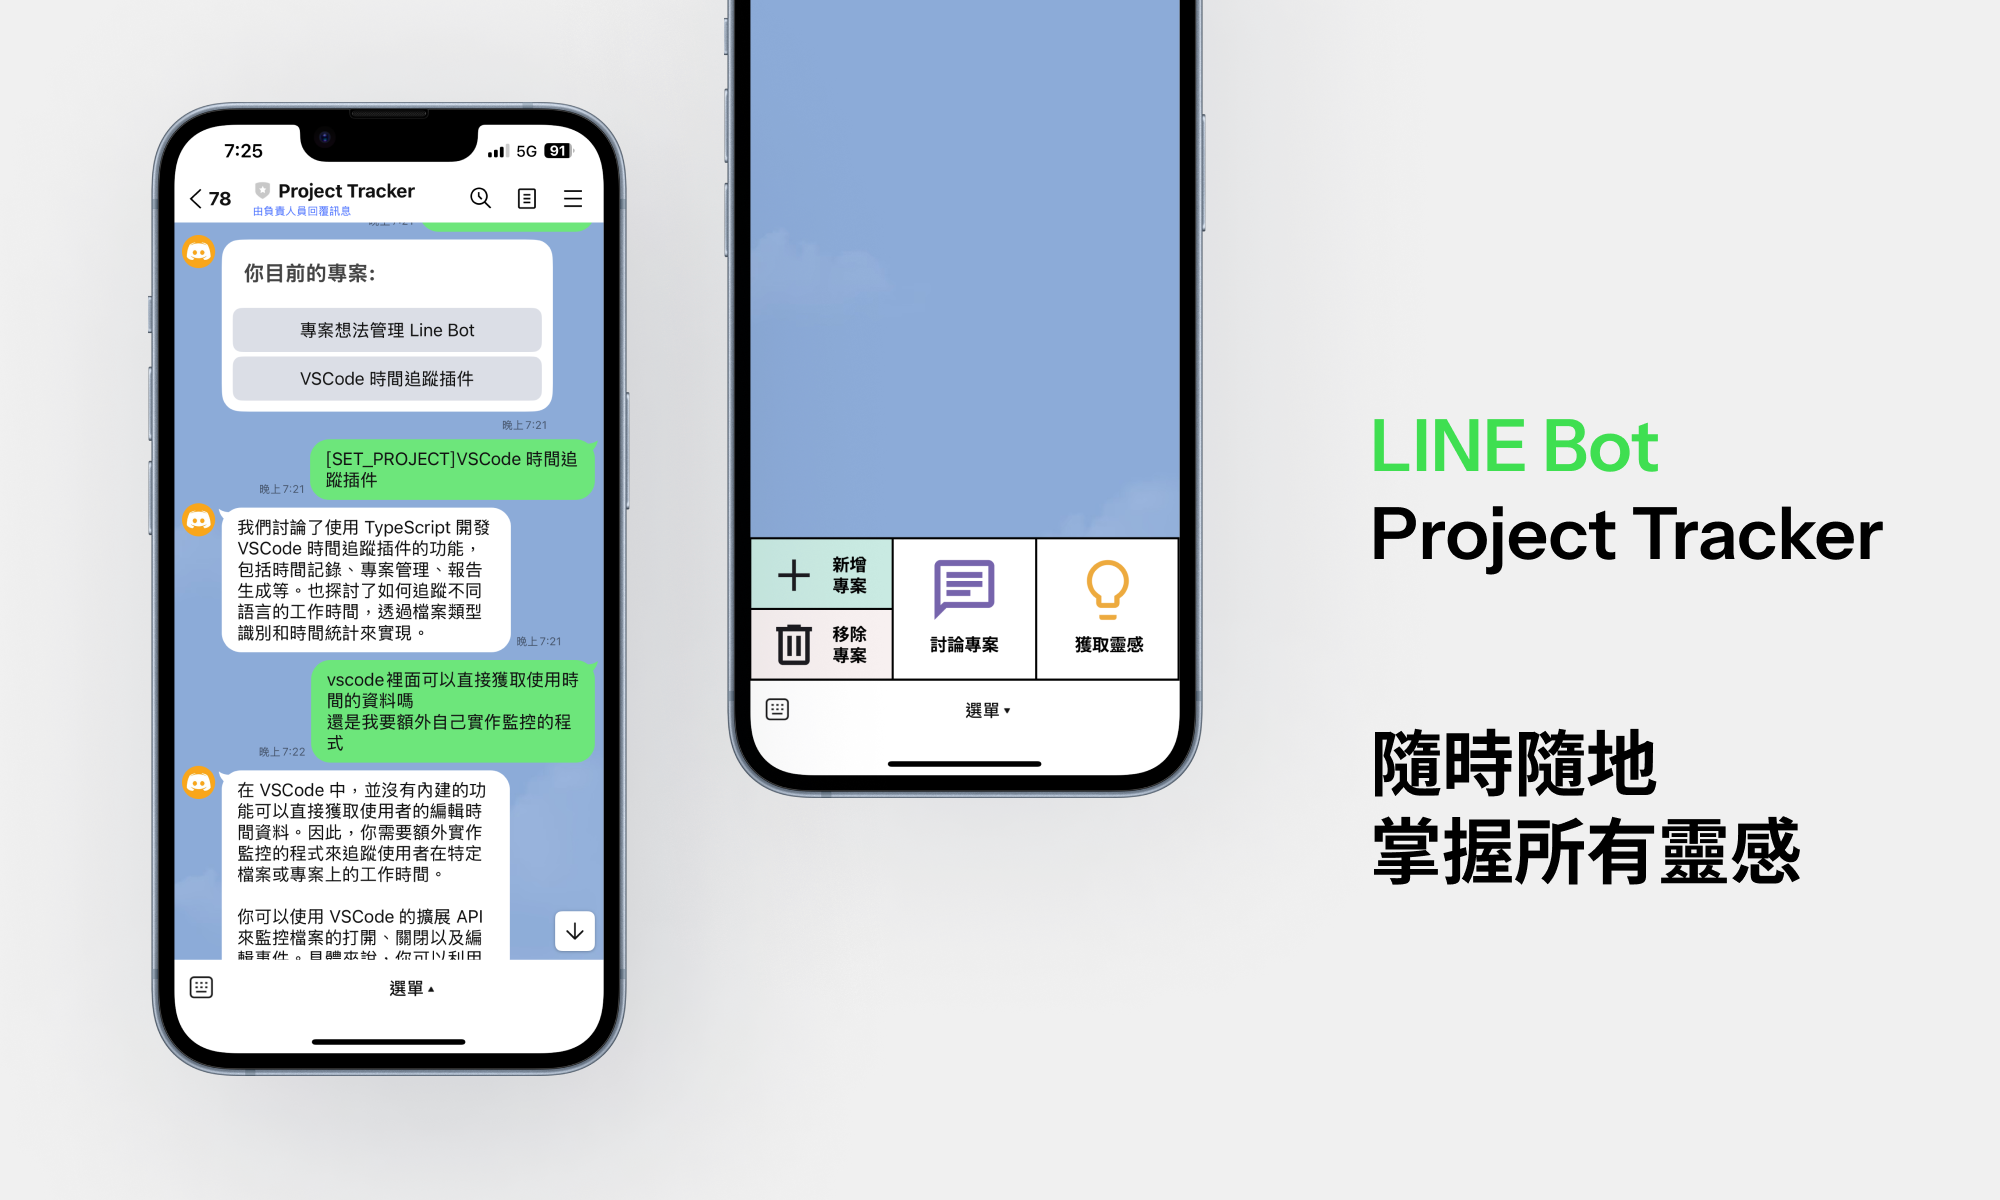
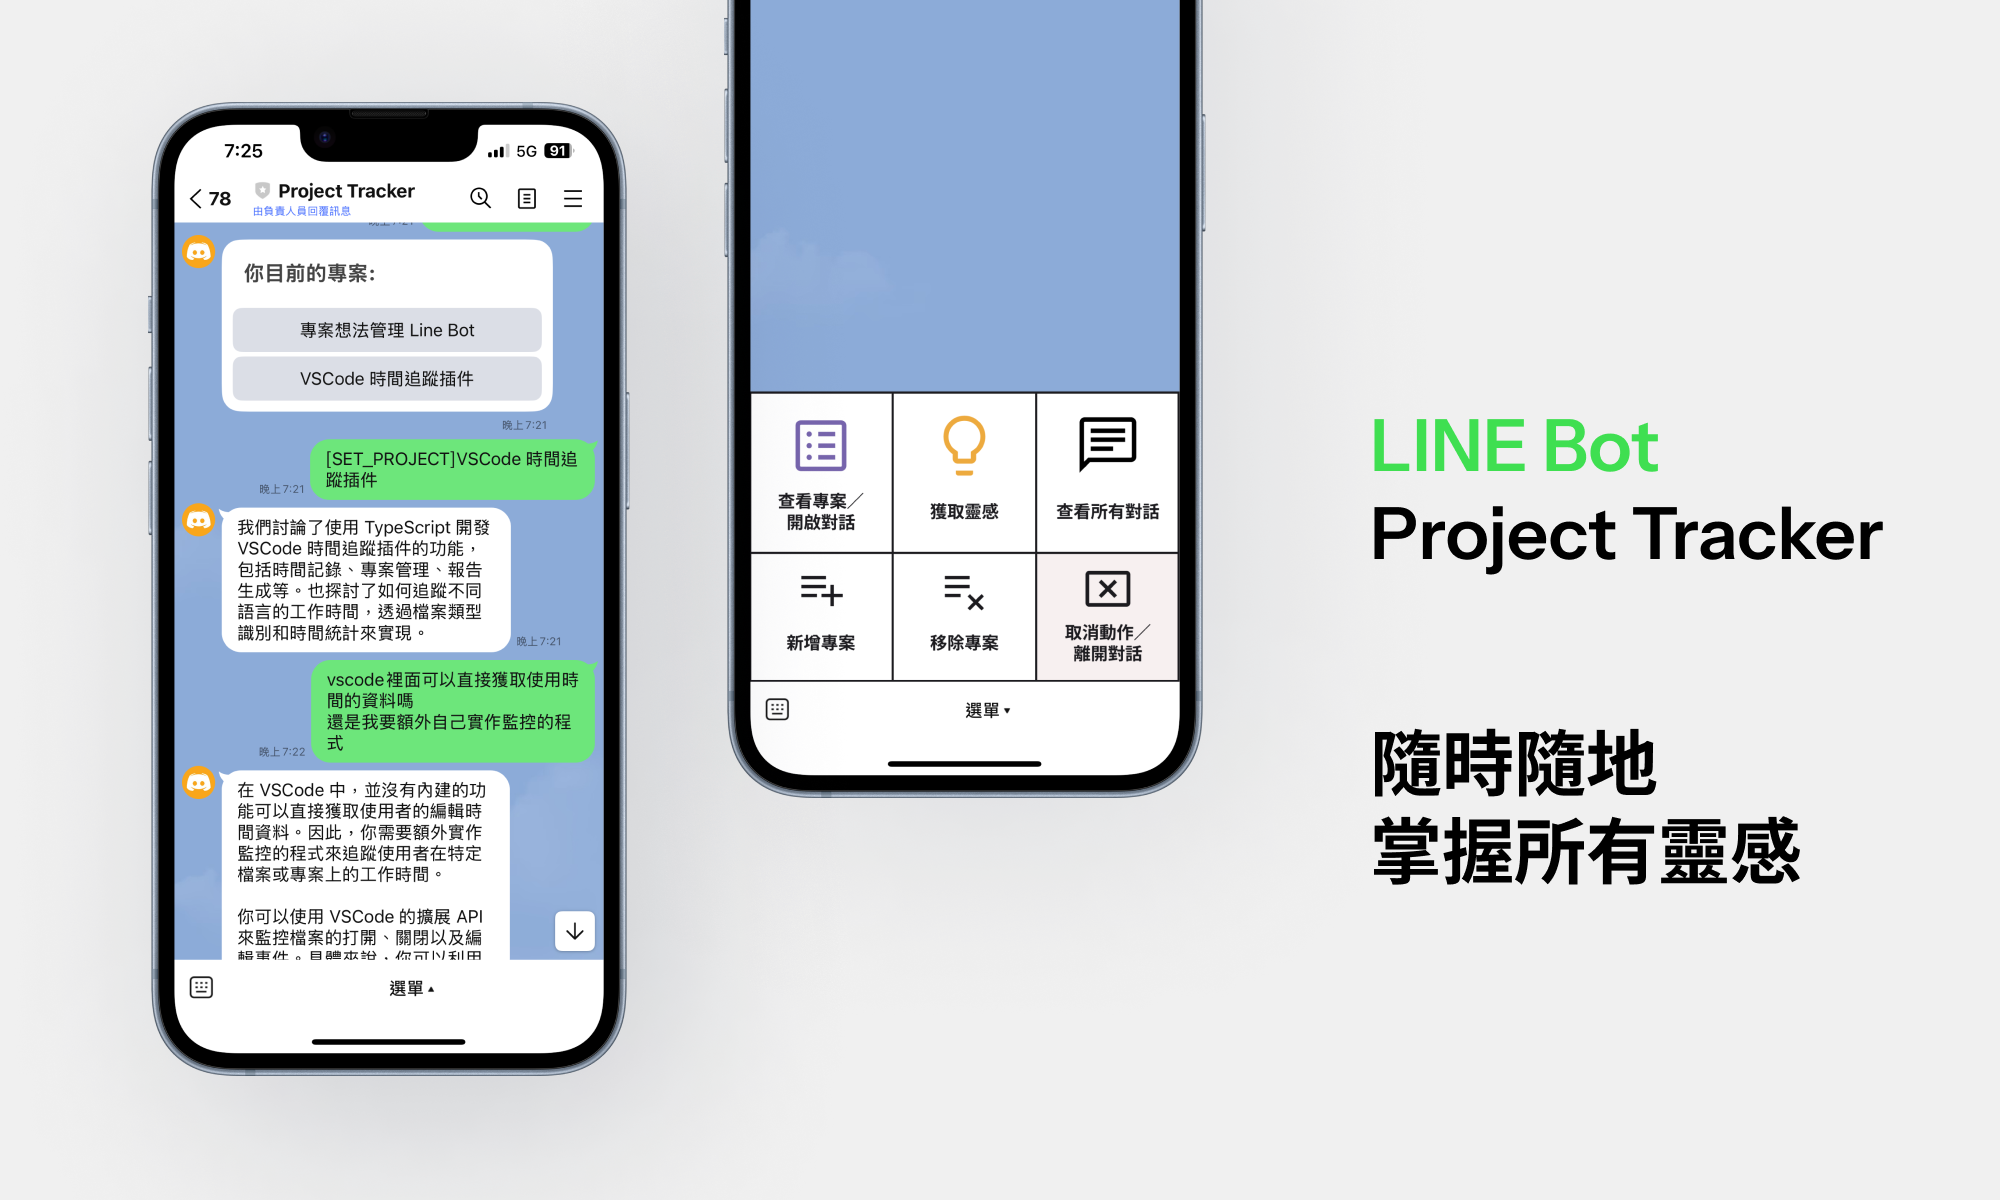
update to rich menu v0.2

Changed region(s): [[0.372, 0.3083, 0.589, 0.5858]]

diff --git a/deploy/main.py b/deploy/main.py
@@ -156,7 +156,9 @@ def handle_message(event):
                 print("HANDLE_REQUEST > ADD_PROJECT")
 
             user_context.update_state(Status.ADD_PROJECT)
-            send_line_text_message(event, "請說明欲新增的專案內容。")
+            send_line_text_message(
+                event, "請說明欲新增的專案內容\n說多一點可以讓 bot 更容易理解喔~"
+            )
             return
 
         # remove project

diff --git a/deploy/line_assest.py b/deploy/line_assest.py
@@ -39,4 +39,4 @@ def build_project_list_flex(title: str, project_flex_list: List[Dict]) -> dict:
     }
 
 
-RICHMENU_ID = "richmenu-d25f6eb2380178b7e3a01a1723283f69"
+RICHMENU_ID = "richmenu-98647900e802ac8a90d800d12e10e65b"
